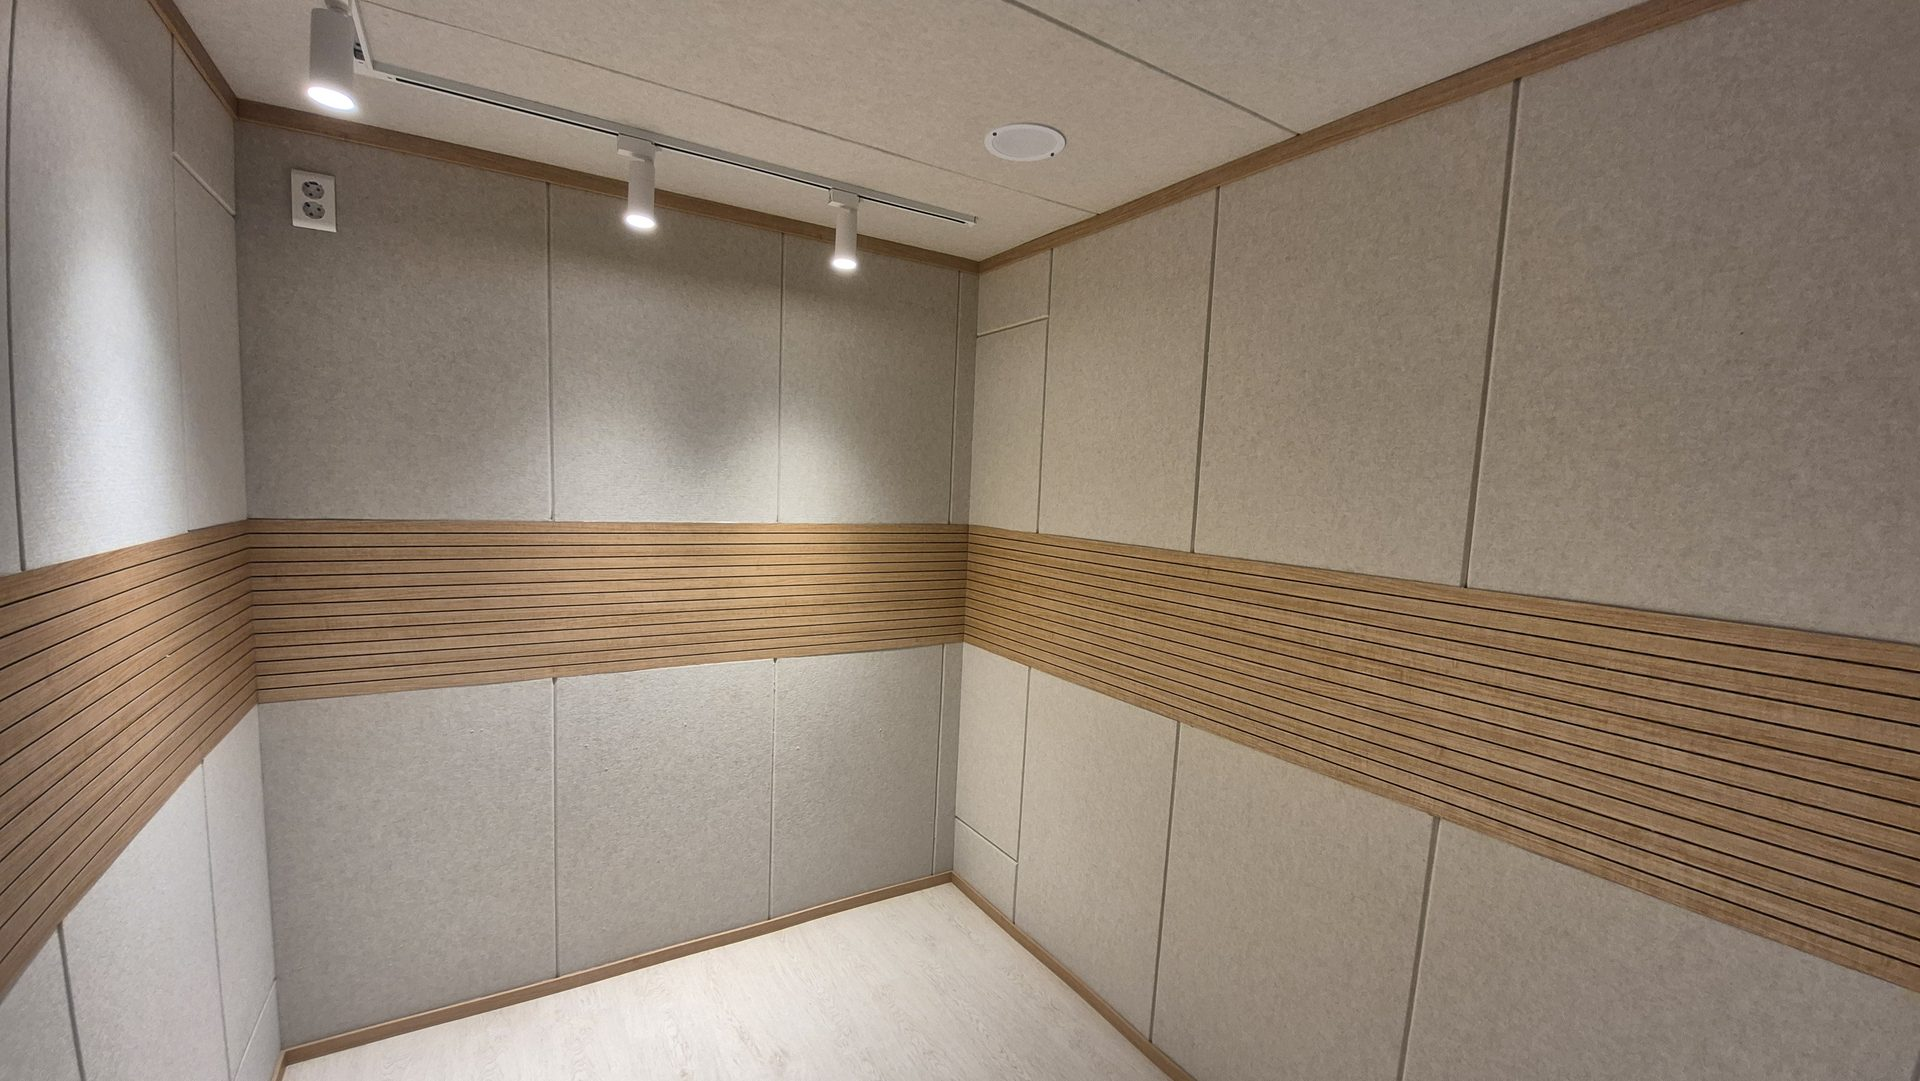
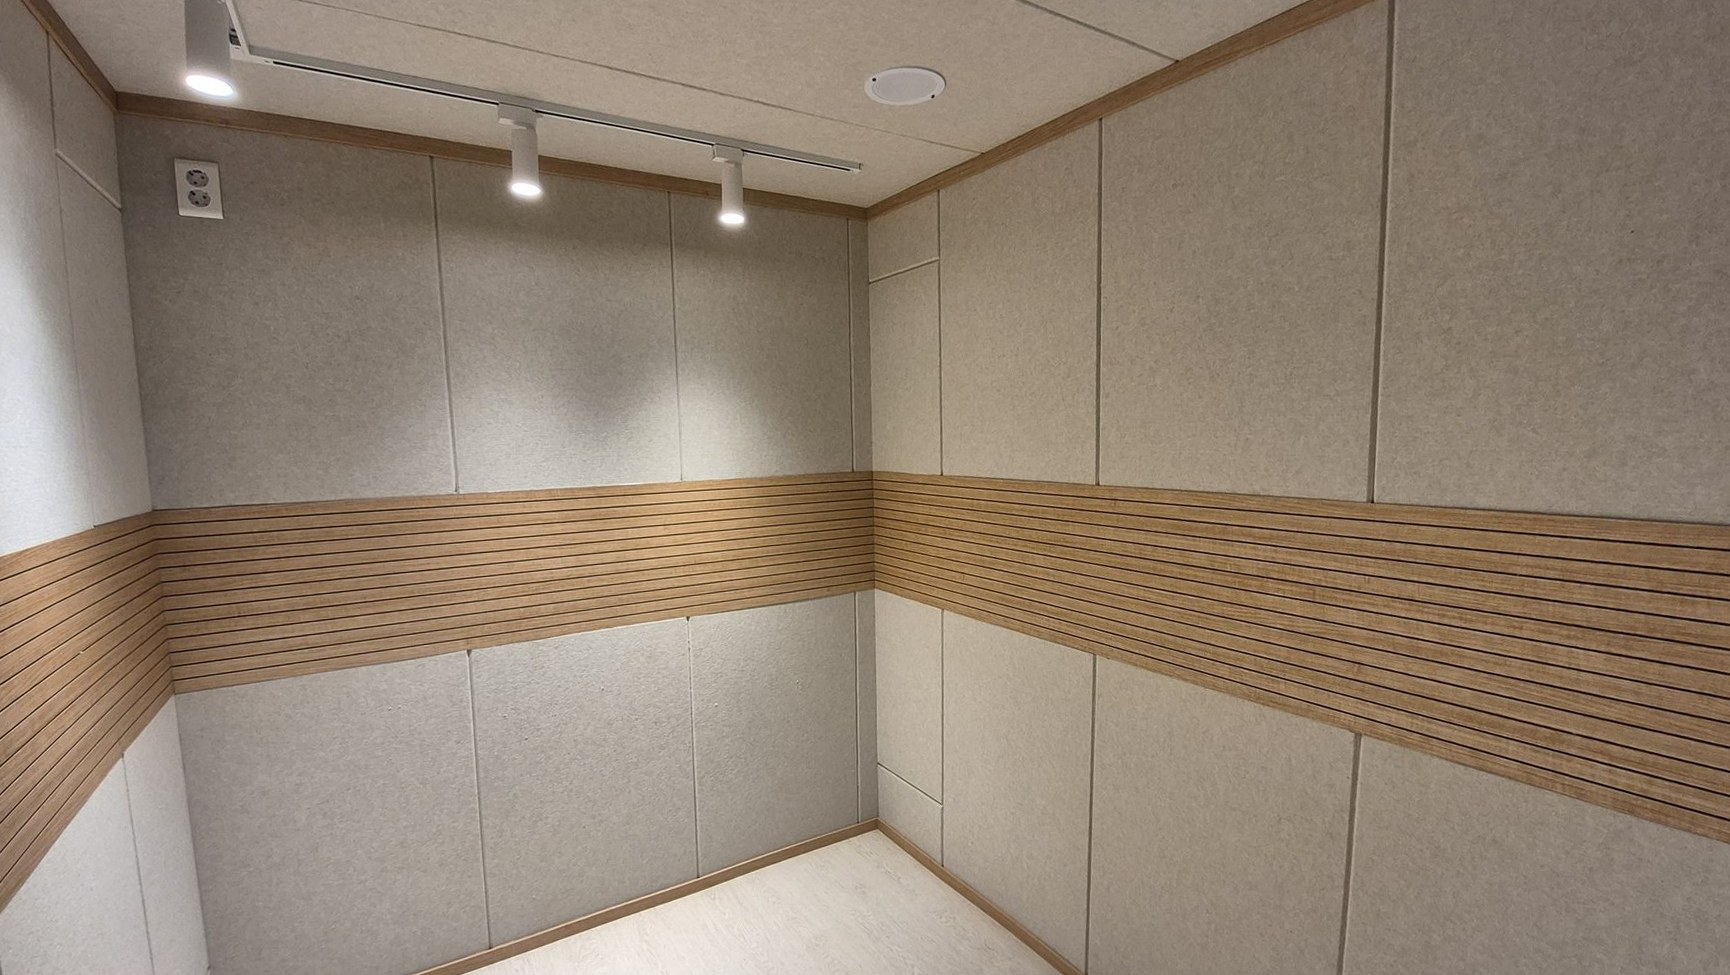
기울어진 사진 11장 바로 세우기 (회전 + 빈 모서리만 자름, 색 보정 없음)
Claude-Session: https://claude.ai/code/session_01SMxL5N6ASRei7csmEoELRw

diff --git a/.github/scripts/straighten_photos.py b/.github/scripts/straighten_photos.py
@@ -1,0 +1,40 @@
+# 사진 가운데 쪽 세로선(벽 모서리·문틀·패널 줄눈)을 찾아 기울기를 재고, 똑바로 세운 뒤 빈 모서리만 잘라낸다.
+# 색·밝기 보정은 하지 않는다. 0.8° 미만은 그대로 둔다.
+# 사용: pip install opencv-python-headless pillow && python3 .github/scripts/straighten_photos.py photos/case1/*.jpg
+import sys, math
+import cv2, numpy as np
+from PIL import Image, ImageOps
+
+def tilt(path):
+    im = cv2.imread(path); h, w = im.shape[:2]; s = 1000/max(h, w)
+    g = cv2.cvtColor(cv2.resize(im, None, fx=s, fy=s), cv2.COLOR_BGR2GRAY)
+    L = cv2.createLineSegmentDetector(0).detect(g)[0]
+    if L is None: return None
+    H, W = g.shape; angs = []; ws = []
+    for x1, y1, x2, y2 in L.reshape(-1, 4):
+        dx, dy = x2-x1, y2-y1; ln = math.hypot(dx, dy)
+        if ln < H*0.08: continue
+        a = math.degrees(math.atan2(dx, dy))
+        if a > 90: a -= 180
+        if a < -90: a += 180
+        if abs(a) > 12: continue
+        if abs(((x1+x2)/2 - W/2)/(W/2)) > 0.4: continue   # 광각 가장자리는 원근으로 원래 기운다
+        angs.append(a); ws.append(ln)
+    if len(angs) < 4: return None
+    angs = np.array(angs); ws = np.array(ws); o = np.argsort(angs); c = np.cumsum(ws[o])
+    return float(angs[o][np.searchsorted(c, c[-1]/2)])
+
+def rot_crop(im, deg):
+    w, h = im.size; r = im.rotate(deg, resample=Image.BICUBIC)
+    t = math.radians(abs(deg)); c, s = math.cos(t), math.sin(t)
+    k = min(w/(w*c + h*s), h/(w*s + h*c))
+    nw, nh = w*k, h*k; x0, y0 = (w-nw)/2, (h-nh)/2
+    return r.crop((round(x0), round(y0), round(x0+nw), round(y0+nh)))
+
+for f in sys.argv[1:]:
+    a = tilt(f)
+    if a is None or abs(a) < 0.8:
+        print('그대로:', f, a); continue
+    im = ImageOps.exif_transpose(Image.open(f)).convert('RGB')
+    rot_crop(im, -a).save(f, 'JPEG', quality=88, optimize=True, progressive=True)
+    print('바로 세움 %.1f°:' % a, f)

diff --git a/CLAUDE.md b/CLAUDE.md
@@ -16,3 +16,4 @@
 - `photos/[칸이름]/` 폴더에 아무 이름으로 올리면 자동으로 뜸 (hero, single, supersingle, double, case1~6).
 - 큰 사진은 `.github/workflows/shrink-photos.yml`이 main에 올라올 때 자동으로 긴 변 1920px로 줄임.
   사진을 직접 넣을 때도 `python3 .github/scripts/shrink_photos.py`로 줄여서 올릴 것.
+- 사진이 기울어 보이면 `python3 .github/scripts/straighten_photos.py photos/폴더/*.jpg` (세로선 기준으로 바로 세우고 빈 모서리만 자름, 색 보정 없음). 위에서 내려다본 사진처럼 세로선이 없는 사진은 결과를 눈으로 확인할 것.
